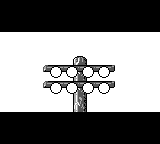
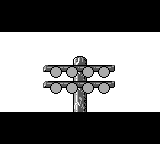
lots of intro sprite stuff

Changed region(s): [[0.4062, 0.4444, 0.5938, 0.6667], [0.625, 0.4444, 0.6875, 0.6667], [0.3125, 0.4444, 0.375, 0.6667]]

diff --git a/src/start.c b/src/start.c
@@ -7,24 +7,98 @@
 
 #ifdef HOME
     #include "../res/home_version/version.c"
+    #include "../res/home_version/version_sprites/version_sprites.c"
     #include "../res/players/004Ginger.c"
-	#include "../res/players/007Squirt.c"
-	#include "../res/players/001Bubbi.c"
-	#include "../res/players/013Weeds.c"
-	#include "../res/players/032Chico.c"
-	#include "../res/players/123Scissors.c"
-	#include "../res/players/025Chu.c"
-	#include "../res/players/035Fairy.c"
-	#include "../res/players/112Don.c"
-	#include "../res/players/063Bruh.c"
-	#include "../res/players/092Gas.c"
-	#include "../res/players/132YeahYeah.c"
-	#include "../res/players/017Gio.c"
-	#include "../res/players/095Onyx.c"
-	#include "../res/players/077Pinto.c"
-	#include "../res/players/129Fish.c"
+    #include "../res/players/007Squirt.c"
+    #include "../res/players/001Bubbi.c"
+    #include "../res/players/013Weeds.c"
+    #include "../res/players/032Chico.c"
+    #include "../res/players/123Scissors.c"
+    #include "../res/players/025Chu.c"
+    #include "../res/players/035Fairy.c"
+    #include "../res/players/112Don.c"
+    #include "../res/players/063Bruh.c"
+    #include "../res/players/092Gas.c"
+    #include "../res/players/132YeahYeah.c"
+    #include "../res/players/017Gio.c"
+    #include "../res/players/095Onyx.c"
+    #include "../res/players/077Pinto.c"
+    #include "../res/players/129Fish.c"
+    const char* intro_player_tiles[] = {
+        &_004Ginger_tiles,
+        &_007Squirt_tiles,
+        &_001Bubbi_tiles,
+        &_013Weeds_tiles,
+        &_032Chico_tiles,
+        &_123Scissors_tiles,
+        &_025Chu_tiles,
+        &_035Fairy_tiles,
+        &_112Don_tiles,
+        &_063Bruh_tiles,
+        &_092Gas_tiles,
+        &_132YeahYeah_tiles,
+        &_017Gio_tiles,
+        &_095Onyx_tiles,
+        &_077Pinto_tiles,
+        &_129Fish_tiles,
+    };
+    const char* intro_player_maps[] = {
+        &_004Ginger_map,
+        &_007Squirt_map,
+        &_001Bubbi_map,
+        &_013Weeds_map,
+        &_032Chico_map,
+        &_123Scissors_map,
+        &_025Chu_map,
+        &_035Fairy_map,
+        &_112Don_map,
+        &_063Bruh_map,
+        &_092Gas_map,
+        &_132YeahYeah_map,
+        &_017Gio_map,
+        &_095Onyx_map,
+        &_077Pinto_map,
+        &_129Fish_map,
+    };
+    const int intro_player_columns[] = {
+        _004GINGER_COLUMNS,
+        _007SQUIRT_COLUMNS,
+        _001BUBBI_COLUMNS,
+        _013WEEDS_COLUMNS,
+        _032CHICO_COLUMNS,
+        _123SCISSORS_COLUMNS,
+        _025CHU_COLUMNS,
+        _035FAIRY_COLUMNS,
+        _112DON_COLUMNS,
+        _063BRUH_COLUMNS,
+        _092GAS_COLUMNS,
+        _132YEAHYEAH_COLUMNS,
+        _017GIO_COLUMNS,
+        _095ONYX_COLUMNS,
+        _077PINTO_COLUMNS,
+        _129FISH_COLUMNS,
+    };
+    const int intro_player_tile_count[] = {
+        _004GINGER_TILE_COUNT,
+        _007SQUIRT_TILE_COUNT,
+        _001BUBBI_TILE_COUNT,
+        _013WEEDS_TILE_COUNT,
+        _032CHICO_TILE_COUNT,
+        _123SCISSORS_TILE_COUNT,
+        _025CHU_TILE_COUNT,
+        _035FAIRY_TILE_COUNT,
+        _112DON_TILE_COUNT,
+        _063BRUH_TILE_COUNT,
+        _092GAS_TILE_COUNT,
+        _132YEAHYEAH_TILE_COUNT,
+        _017GIO_TILE_COUNT,
+        _095ONYX_TILE_COUNT,
+        _077PINTO_TILE_COUNT,
+        _129FISH_TILE_COUNT,
+    };
 #else
     #include "../res/away_version/version.c"
+    #include "../res/away_version/version_sprites/version_sprites.c"
     #include "../res/players/007Squirt.c"
     #include "../res/players/004Ginger.c"
     #include "../res/players/001Bubbi.c"
@@ -117,24 +191,6 @@
 
 #define PLAYER_INDEX _TITLE_TILE_COUNT+_VERSION_TILE_COUNT
 
-void slide_pitcher_lcd_interrupt(void) {
-    if (LY_REG == 0) {
-        LYC_REG = 47;
-        SCX_REG = 0;
-        SCY_REG = 0;
-    }
-    else if (LY_REG == 47) {
-        LYC_REG = 111;
-        SCX_REG = x;
-        SCY_REG = 0;
-    }
-    else if (LY_REG == 111) {
-        LYC_REG = 47;
-        SCX_REG = 0;
-        SCY_REG = 0;
-    }
-}
-
 void show_title_lcd_interrupt(void) {
     switch (LY_REG) {
         case 0:
@@ -178,46 +234,70 @@ void show_copyrights () {
     set_bkg_tiles(0, 0, _COPYRIGHT_COLUMNS, _COPYRIGHT_ROWS, _copyright_map);
     SHOW_BKG;
     DISPLAY_ON;
-    delay(3000);
+    delay(1500);
 }
 
+const unsigned char lights_pal_seq[] = {
+    0xE0, 0xE0, 0xE0, 0xE0, 0xE8, 0xE8, 0xE8, 0xE8, 0xE0, 0xE0,
+    0xE0, 0xE0, 0xE8, 0xE8, 0xE8, 0xE8, 0xE0, 0xE0, 0xE0, 0xE0,
+    0xE8, 0xE8, 0xE8, 0xE8, 0xE0, 0xE0, 0xE0, 0xE0, 0xE8, 0xE8,
+    0xE8, 0xE8, 0xEC, 0xEC, 0xEC, 0xEC, 0xEC, 0xEC, 0xEC, 0xEC,
+};
 void show_intro_sequence () {
     DISPLAY_OFF;
     HIDE_BKG;
+    BGP_REG = 0xE0;
     set_bkg_data(0, _INTRO_TILE_COUNT, _intro_tiles);
     set_bkg_tiles(0, 0, _INTRO_LIGHTS_COLUMNS, _INTRO_LIGHTS_ROWS, _intro_lights_map);
     set_sprite_data(0, _INTRO_SPRITES_TILE_COUNT, _intro_sprites_tiles);
+    set_sprite_data(_INTRO_SPRITES_TILE_COUNT, _VERSION_SPRITES_TILE_COUNT, _version_sprites_tiles);
     set_sprite_tile(0, 0);
     move_sprite(0, 152,0);
     DISPLAY_ON;
     SHOW_BKG;
+    delay(1000);
     y = 0;
     for (x = 152; x > 88; x-=2) {
         move_sprite(0, x, y+=3);
         wait_vbl_done();
     }
-    for (x = 88; x < 120; x+=1) {
-        move_sprite(0, x, y+=4);
+    set_bkg_tiles(10, 8, _INTRO_LIGHT_OUT_COLUMNS, _INTRO_LIGHT_OUT_ROWS, _intro_light_out_map);
+    // start playing stars animation
+    for (x = 0; x < 40; ++x) {
+        move_sprite(0, x+88, y+=4);
+        BGP_REG = lights_pal_seq[x];
         wait_vbl_done();
     }
+    delay(1000);
 
-    x = -128;
-    disable_interrupts();
-    add_LCD(slide_pitcher_lcd_interrupt);
-    enable_interrupts();
+    BGP_REG = BG_PALETTE;
     wait_vbl_done();
     set_bkg_tiles(0, 0, _INTRO_PITCH_COLUMNS, _INTRO_PITCH_ROWS, _intro_pitch_map);
-    for (j = 0; j <= 128; j+=2) {
-        x = -128+j;
-        wait_vbl_done();
+    for (i = 0; i < _INTRO0_COLUMNS*_INTRO0_ROWS; i++) {
+        set_sprite_tile(i, _intro0_map[i]+_INTRO_SPRITES_TILE_COUNT);
+        set_sprite_prop(i, S_PRIORITY);
     }
+    for (k = 0; k <= 128; k+=2) {
+        move_bkg(k+32, 0);
+        a = 0;
+        for (j = 0; j < _INTRO0_ROWS; j++) {
+            for (i = 0; i < _INTRO0_COLUMNS; i++) {
+                move_sprite(a++, k+i*8-32, j*8+80);
+            }
+        }
+    }
+    delay(1000);
+
     disable_interrupts();
     delay(200);
     BGP_REG = 0x90;
+    OBP0_REG = 0x90;
     delay(200);
     BGP_REG = 0x40;
+    OBP0_REG = 0x40;
     delay(200);
     BGP_REG = 0x00;
+    OBP0_REG = 0x00;
 }
 
 void show_player (int p) {
@@ -242,9 +322,24 @@ void cycle_players_vbl_interrupt(void) {
 
 void show_title () {
     DISPLAY_OFF;
+    clear_screen();
     BGP_REG = BG_PALETTE;
+    OBP0_REG = SPR_PALETTE_0;
+
+    set_sprite_data(0, _TITLE_SPRITES_TILE_COUNT, _title_sprites_tiles);
+    a = 0;
+    for (j = 0; j < _CALVIN_TITLE_ROWS; ++j) {
+        for (i = 0; i < _CALVIN_TITLE_COLUMNS; ++i) {
+            b = _calvin_title_map[j*_CALVIN_TITLE_COLUMNS+i];
+            if (b == 0) continue;
+            set_sprite_tile(a, b);
+            set_sprite_prop(a, 0);
+            move_sprite(a, i*8+96, j*8+96);
+            a++;
+        }
+    }
+
     disable_interrupts();
-    remove_LCD(slide_pitcher_lcd_interrupt);
     add_LCD(show_title_lcd_interrupt);
     enable_interrupts();
     set_bkg_data(0, _TITLE_TILE_COUNT, _title_tiles);
@@ -281,13 +376,12 @@ void show_title () {
             x = j+128;
             wait_vbl_done();
         }
-        // show_player(z);
         z++;
+        if (z == 16) z = 0;
         for (j = 0; j <= 128; j+=6) {
             x = j;
             wait_vbl_done();
         }
-        if (z == 16) z = 0;
     }
 }
 
@@ -300,7 +394,7 @@ void start_screen () {
     STAT_REG = 72;
     set_interrupts(LCD_IFLAG|VBL_IFLAG);
     // show_copyrights();
-    show_intro_sequence();
+    // show_intro_sequence();
     show_title();
     show_start_menu();
 }

diff --git a/src/beisbol.h b/src/beisbol.h
@@ -8,7 +8,7 @@
 
 // GameBoy palettes
 #define BG_PALETTE    0xE4
-#define SPR_PALETTE_0 0xE0
+#define SPR_PALETTE_0 0xE4
 #define SPR_PALETTE_1 0xD0
 
 // GB color palettes
@@ -26,7 +26,10 @@
 
 // global vars
 int a, b, c, i, j, k, x, y, z;
-unsigned char tiles[256];
+unsigned char tiles[1024];
+
+// utils
+void clear_screen ();
 
 // audio
 void setup_audio();

diff --git a/src/main.c b/src/main.c
@@ -1,6 +1,11 @@
 #include "beisbol.h"
 #include "start.c"
 
+void clear_screen () {
+    for (i = 0; i < 1024; ++i) tiles[i] = 0;
+    set_bkg_tiles(0,0,32,32,tiles);
+}
+
 void main () {
     cgb_compatibility();
     DISPLAY_OFF;

diff --git a/README.md b/README.md
@@ -1,15 +1,16 @@
 TODO:
     banking
+    Main
+        fade in/out func
     Intro
         sfx
         sparks after ball hits light
-        light goes out
-        batter sprite
-        Calvin sprite
-        ball toss anim
+        pitch/bat anim
+        add joypad input
+    New Game
+        Text
     Battle
     Walking
-    Text
     Roledex
 
 Controller - MCB5
